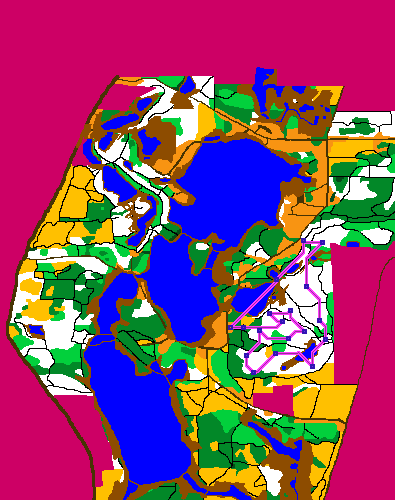
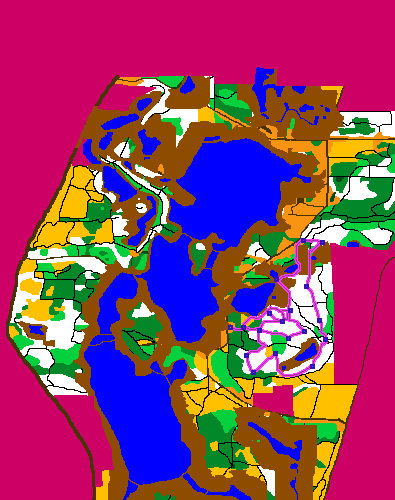
getting some nice outputs now

diff --git a/Orienteering.py b/Orienteering.py
@@ -4,22 +4,22 @@ from PIL import Image
 import math
 from enum import Enum
 from dataclasses import dataclass
-from heapq import heappush, heappop, heapify
+from heapq import heappush, heappop
 import time
 from RenderMap import *
 
 
 class Terrain(Enum):
-    ROAD = .1
-    TRAIL = .1
+    ROAD = .2
+    TRAIL = -.3
     OPENLAND = .5
-    ROUGHMEADOW = .5
-    EASYFOREST = .5
-    SLOWRUNFOREST = .5
-    WALKFOREST = 1
-    LAKE = 2
-    ICE = 3
-    MUD = 4
+    ROUGHMEADOW = .6
+    EASYFOREST = .7
+    SLOWRUNFOREST = 1
+    WALKFOREST = 1.1
+    LAKE = 3
+    ICE = 4
+    MUD = 1.5
     IMPASSABLEVEG = 100
     OUTOFBOUNDS = 200
 
@@ -38,7 +38,7 @@ class point:
     def __repr__(self):
         return str(self.x)+","+str(self.y)+" f: "+str(round(self.f,1))+" = "+str(round(self.g,1))+" + "+str(round(self.h,1))
     def __lt__(self, other):
-        return self.h < other.h
+        return self.f < other.f
 
 def makeMap(terrain_image, elevation_file,season):
     terrain = Image.open(terrain_image)
@@ -49,7 +49,7 @@ def makeMap(terrain_image, elevation_file,season):
     for y in range(0, len(grid)):
         for x in range(0, len(grid[y])):
             whole = elev[y][x].split('e+')
-            elev[y][x] = round(float(whole[0]) * int(math.pow(10, int(whole[1]))), 6)
+            elev[y][x] = round(float(whole[0]) * int(math.pow(10, int(whole[1]))), 7)
             z = elev[y][x]
             color = pix[x, y]
             hex = "#{:02x}{:02x}{:02x}".format(color[0], color[1], color[2])
@@ -71,10 +71,9 @@ def makeMap(terrain_image, elevation_file,season):
                 if grid[y][x].terrain == Terrain.LAKE:
                     for neighbor in neighbors(grid,grid[y][x]):
                         if neighbor.terrain!= Terrain.LAKE and neighbor.terrain != Terrain.OUTOFBOUNDS:
-                            neighbor.terrain=Terrain.MUD
-                            pix[neighbor.x, neighbor.y] = (141, 76, 0, 255)
+                            #frontier.append(neighbor)
                             frontier.append((neighbor,grid[y][x].z))
-
+                            #pix[x,y]=(255,0,0,255)
         Mudbfs(pix,grid,frontier)
     return terrain,grid
 
@@ -91,20 +90,24 @@ def Icebfs(pix,grid,frontier):
             q.put(None)
             continue
         for neighbor in neighbors(grid, grid[new.y][new.x]):
-            if neighbor.terrain == Terrain.LAKE:
+            if neighbor.terrain == Terrain.LAKE :
                 neighbor.terrain=Terrain.ICE
                 pix[neighbor.x,neighbor.y]=(123,255,255,255)
                 q.put(neighbor)
+
 def Mudbfs(pix,grid,frontier):
     q = queue.Queue()
     index=0
     visited=[]
     for curr in frontier:
-        q.put((curr[0],curr[1],index))
-        index+=1
-        visited.append([])
-        #pix[curr[0].x,curr[0].y]=(123,255,255,255)
         #print(curr[0],curr[1])
+        if(curr[0].z-curr[1]<=1):
+            q.put((curr[0],curr[1],index))
+            curr[0].terrain = Terrain.MUD
+            pix[curr[0].x, curr[0].y] = (141, 76, 0, 255)
+            visited.append([])
+            visited[index].append(curr[0])
+            index+=1
 
     q.put(None)
     depth=0
@@ -116,14 +119,11 @@ def Mudbfs(pix,grid,frontier):
             continue
         new, start ,index= temp[0], temp[1],temp[2]
         for neighbor in neighbors(grid, grid[new.y][new.x]):
-
-            if neighbor.terrain != Terrain.LAKE and neighbor.terrain!=Terrain.OUTOFBOUNDS and abs(neighbor.z-start)<=1 and neighbor not in visited[index]:
+            #print(neighbor.x,neighbor.y,neighbor.z-start)
+            if (neighbor.terrain!=Terrain.MUD and neighbor.terrain!=Terrain.LAKE and neighbor.terrain!=Terrain.OUTOFBOUNDS) and neighbor.z-start<=6:
                 neighbor.terrain=Terrain.MUD
-                visited[index].append(neighbor)
-
                 pix[neighbor.x,neighbor.y]=(141,76,0,255)
                 q.put((neighbor,start,index))
-
 
 def neighbors(map, current):
     x = current.x
@@ -176,16 +176,18 @@ def heuristic(start, goal):
     dx = abs(x - gx)*10.29
     dy = abs(y - gy)*7.55
     dz = abs(z - gz)
-    #score = D * (dx + dy) + (D2 - 2 * D) * min(dx, dy)
+    #score = 1 *(dx + dy) + (1 - 2 * 1) * min(dx, dy)
     score=math.sqrt(dx*dx+dy*dy)
+    #return score
     return math.sqrt(score*score+dz*dz)
     #return dx+dy+dz
 
 def terrainHeuristic(start,goal):
     distance=heuristic(start,goal)
     #print(start.terrain)
+    #print(distance)
     terrainMulti=goal.terrain.value
-    return distance*terrainMulti
+    return terrainMulti*distance
 
 def astar(map, start, goal):
 
@@ -259,6 +261,8 @@ def runCourse(map, path_file):
 def main(terrain_image, elevation_file, path_file, season, output):
     print("Loading Map")
     season_image,map = makeMap(terrain_image, elevation_file,season)
+    constructRender("output/pathMap2.png",terrain=season_image,outline=1)
+
     print("Map loaded, running A*")
     path, visited, stops = runCourse(map, path_file)
     constructRender("output/elevationPathMap.png",map=map, path=path, stops=stops )

diff --git a/RenderMap.py b/RenderMap.py
@@ -40,10 +40,10 @@ def visitedMap(terrain_image,visited):
     pix = terrain_image.load()
     for index in range(0, len(visited)):
         visit = visited[index]
-        z = int(255 * index / len(visited))
+        z = int(190* index / len(visited))
         if index == 0 or index == len(visited):
             pix[visit.x, visit.y] = (255, 60, 255, 255)
-        pix[visit.x, visit.y] = (z, z, z, 255)
+        pix[visit.x, visit.y] = (60+z, 245, 60+(190-z), 255)
 
     return terrain_image
 
